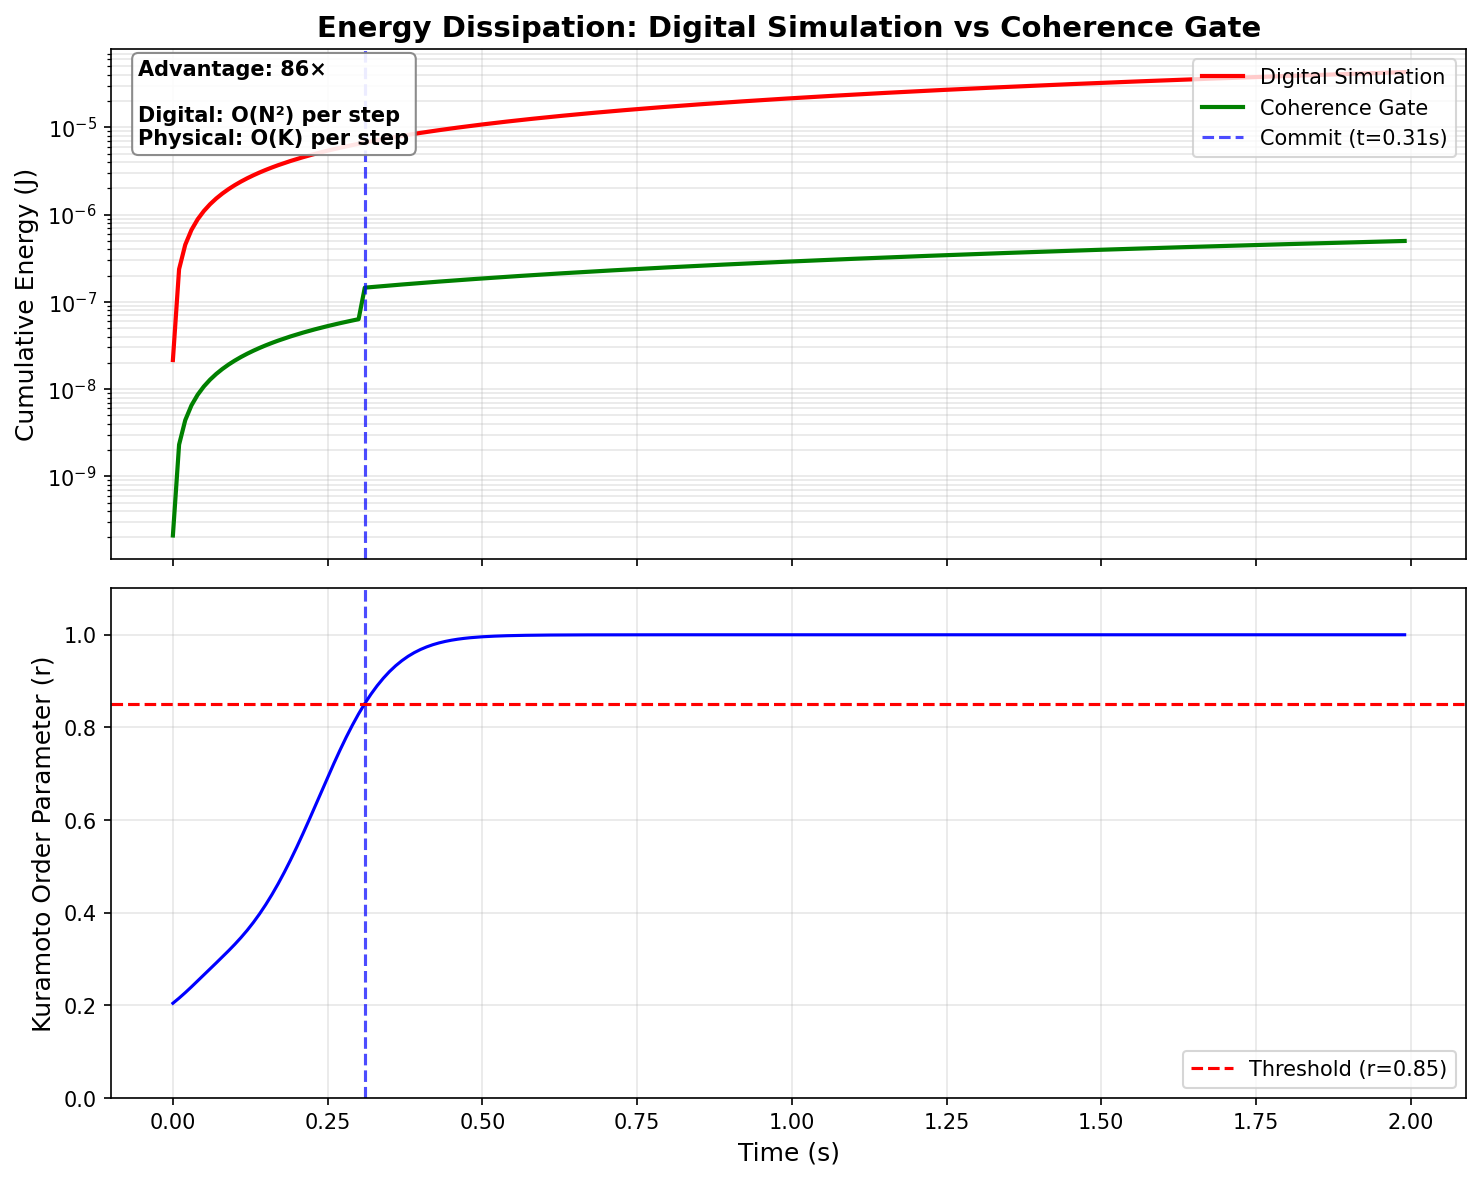
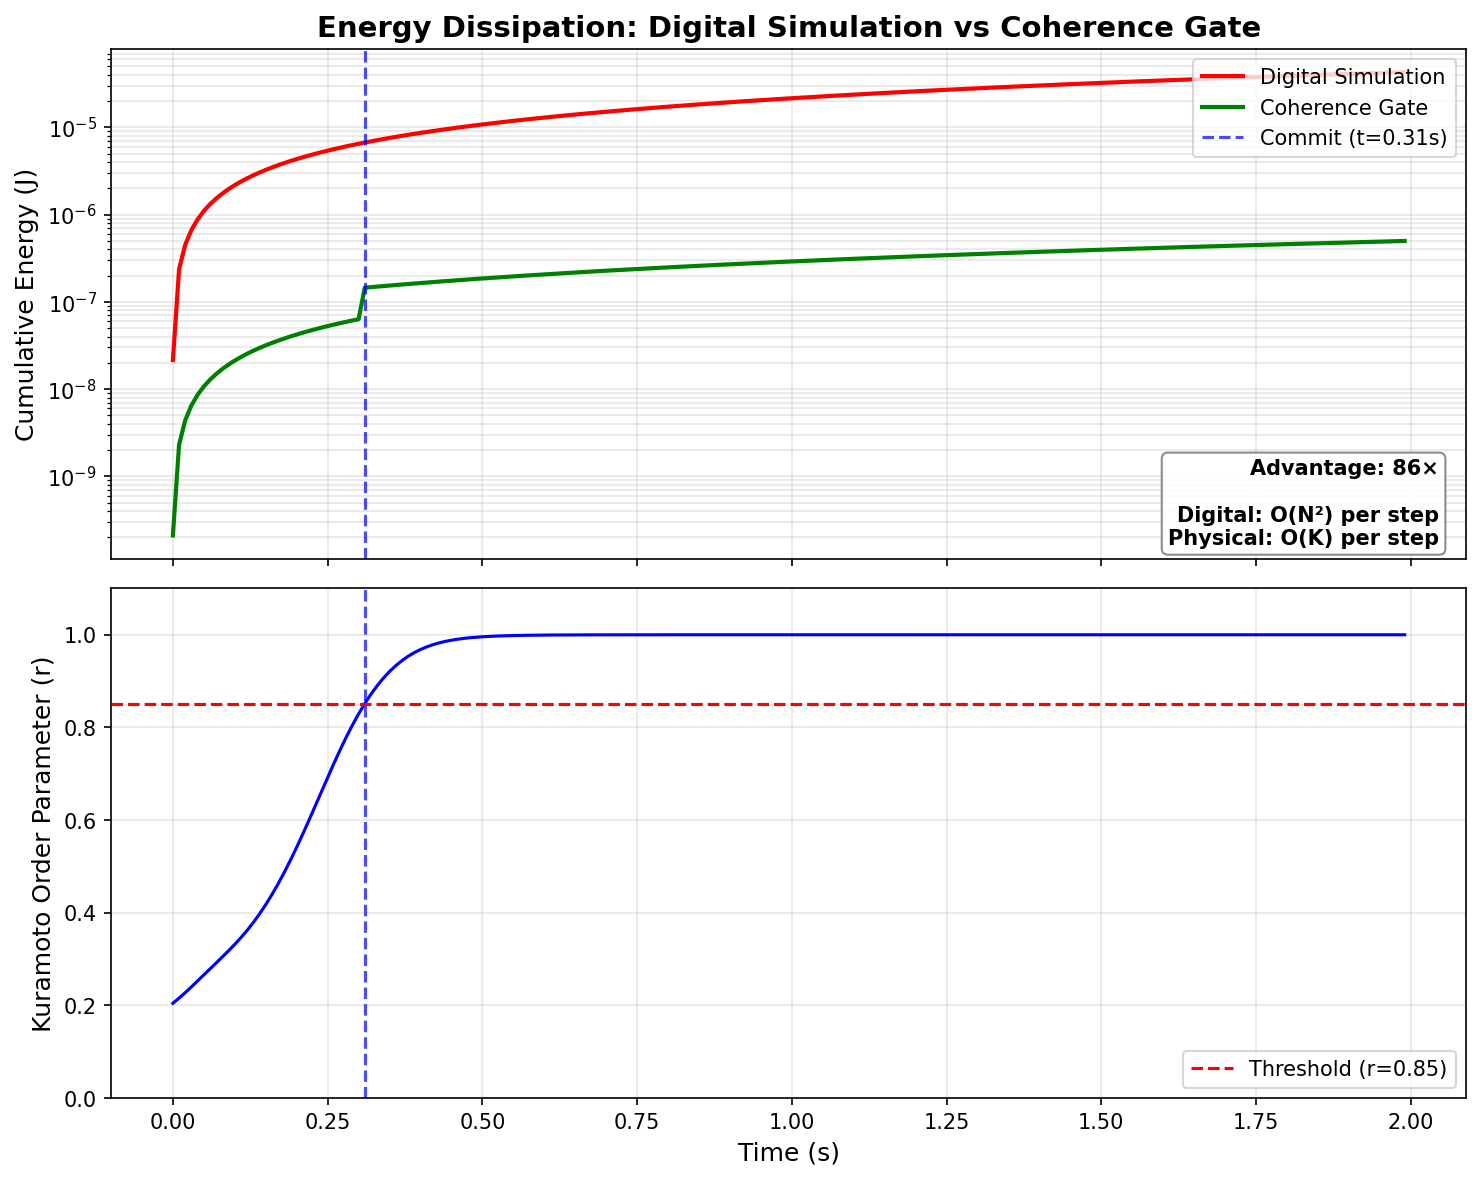
Fix figure labels to bottom-right

Changed region(s): [[0.7765, 0.3661, 0.9939, 0.4881], [0.0932, 0.0305, 0.2795, 0.1525]]

diff --git a/power_comparison_v2.py b/power_comparison_v2.py
@@ -195,31 +195,30 @@ def run_time_trace(N=100, K_taps=20, T_max=2.0):
             np.array(analog_trace), np.array(coherence_trace), commit_time)
 
 def plot_time_series(t, e_dig, e_ana, coherence, commit_time, N, K_taps):
-    """FIG 12: Energy vs time comparison."""
+    """FIG 1: Energy vs time comparison."""
 
     fig, (ax1, ax2) = plt.subplots(2, 1, figsize=(10, 8), sharex=True)
 
     # Top: Energy (log scale)
-    ax1.semilogy(t, e_dig, 'r-', lw=2,
-                 label=f'Digital Simulation\n(O(N²) coupling per step)')
-    ax1.semilogy(t, e_ana, 'g-', lw=2,
-                 label=f'Coherence Gate\n(O(K) coherence + static)')
+    ax1.semilogy(t, e_dig, 'r-', lw=2, label='Digital Simulation')
+    ax1.semilogy(t, e_ana, 'g-', lw=2, label='Coherence Gate')
 
     if commit_time:
         ax1.axvline(commit_time, color='blue', ls='--', alpha=0.7,
                     label=f'Commit (t={commit_time:.2f}s)')
 
     ratio = e_dig[-1] / e_ana[-1]
-    ax1.annotate(f'Advantage: {ratio:.0f}×',
-                 xy=(t[-1], e_ana[-1]),
-                 xytext=(t[-1]*0.6, e_ana[-1]*50),
-                 fontsize=12, fontweight='bold',
-                 arrowprops=dict(arrowstyle='->', color='green'))
+
+    # Text box in bottom right for advantage and complexity
+    textstr = f'Advantage: {ratio:.0f}×\n\nDigital: O(N²) per step\nPhysical: O(K) per step'
+    ax1.text(0.98, 0.02, textstr, transform=ax1.transAxes, fontsize=10,
+             verticalalignment='bottom', horizontalalignment='right', fontweight='bold',
+             bbox=dict(boxstyle='round', facecolor='white', edgecolor='gray', alpha=0.9))
 
     ax1.set_ylabel('Cumulative Energy (J)', fontsize=12)
-    ax1.set_title(f'Energy Dissipation: Digital Simulation vs Coherence Gate',
+    ax1.set_title('Energy Dissipation: Digital Simulation vs Coherence Gate',
                   fontsize=14, fontweight='bold')
-    ax1.legend(loc='center right', fontsize=9)
+    ax1.legend(loc='upper right', fontsize=10)
     ax1.grid(True, alpha=0.3, which='both')
 
     # Bottom: Coherence
@@ -236,11 +235,11 @@ def plot_time_series(t, e_dig, e_ana, coherence, commit_time, N, K_taps):
     ax2.grid(True, alpha=0.3)
 
     plt.tight_layout()
-    plt.savefig('/Users/iantodd/Desktop/highdimensional/00_coherence_compute/simulations/fig12_energy_vs_time.pdf',
+    plt.savefig('/Users/iantodd/Desktop/highdimensional/24_coherence_gate_paper/figures/fig_energy_comparison.pdf',
                 dpi=300, bbox_inches='tight')
-    plt.savefig('/Users/iantodd/Desktop/highdimensional/00_coherence_compute/simulations/fig12_energy_vs_time.png',
+    plt.savefig('/Users/iantodd/Desktop/highdimensional/24_coherence_gate_paper/figures/fig_energy_comparison.png',
                 dpi=150, bbox_inches='tight')
-    print("Saved: fig12_energy_vs_time.pdf")
+    print("Saved: figures/fig_energy_comparison.pdf")
 
 def plot_n_scaling(results):
     """FIG 13: Energy ratio vs N showing O(N²) scaling."""
@@ -275,11 +274,11 @@ def plot_n_scaling(results):
             bbox=dict(boxstyle='round', facecolor='white', edgecolor='gray', alpha=0.9))
 
     plt.tight_layout()
-    plt.savefig('/Users/iantodd/Desktop/highdimensional/00_coherence_compute/simulations/fig13_n_scaling.pdf',
+    plt.savefig('/Users/iantodd/Desktop/highdimensional/24_coherence_gate_paper/figures/fig_scaling.pdf',
                 dpi=300, bbox_inches='tight')
-    plt.savefig('/Users/iantodd/Desktop/highdimensional/00_coherence_compute/simulations/fig13_n_scaling.png',
+    plt.savefig('/Users/iantodd/Desktop/highdimensional/24_coherence_gate_paper/figures/fig_scaling.png',
                 dpi=150, bbox_inches='tight')
-    print("Saved: fig13_n_scaling.pdf")
+    print("Saved: figures/fig_scaling.pdf")
 
 def print_patent_example(results, N_example=100):
     """Generate patent-style example text."""
